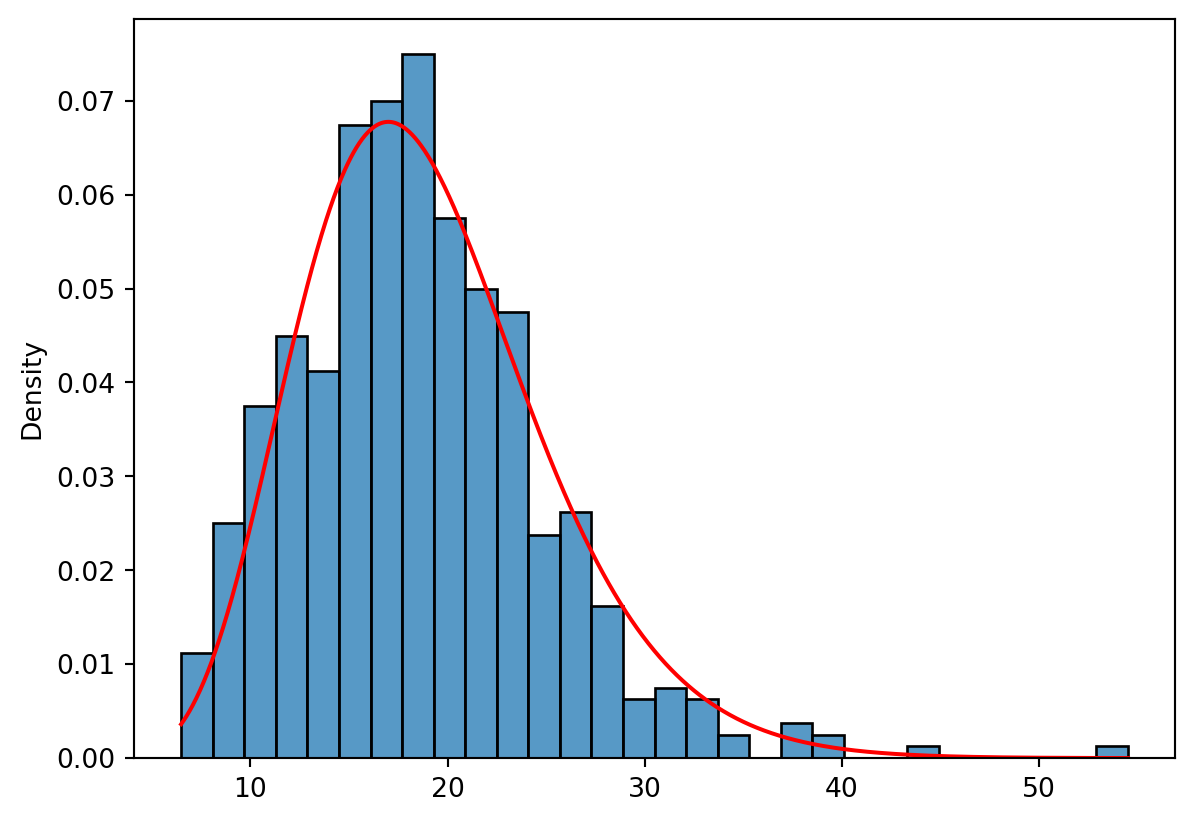
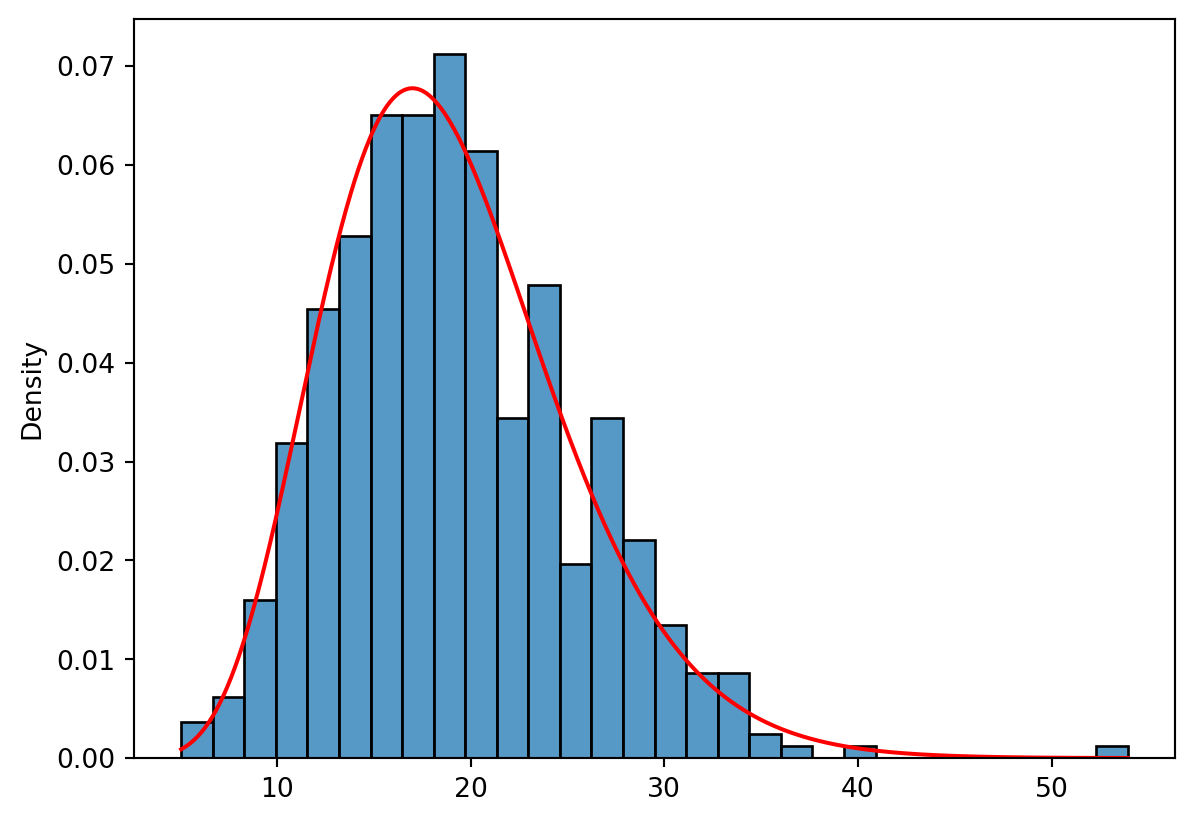
hw7 내용추가

diff --git a/docs/posts/hw7/index.html b/docs/posts/hw7/index.html
@@ -227,7 +227,7 @@ pre > code.sourceCode > span > a:first-child::before { text-decoration: underlin
 <p>2022년에 실시 된 ADP 실기 시험의 통계파트 표준점수는 평균이 30, 표준편차가 5인 정규분포를 따른다고 한다.</p>
 <section id="adp-실기-시험의-통계파트-표준점수의-밀도함수를-그려보세요." class="level3">
 <h3 class="anchored" data-anchor-id="adp-실기-시험의-통계파트-표준점수의-밀도함수를-그려보세요.">1. ADP 실기 시험의 통계파트 표준점수의 밀도함수를 그려보세요.</h3>
-<div id="126dbf3b" class="cell" data-execution_count="1">
+<div id="5fcde84c" class="cell" data-execution_count="1">
 <div class="sourceCode cell-code" id="cb1"><pre class="sourceCode python code-with-copy"><code class="sourceCode python"><span id="cb1-1"><a href="#cb1-1" aria-hidden="true" tabindex="-1"></a><span class="im">import</span> numpy <span class="im">as</span> np</span>
 <span id="cb1-2"><a href="#cb1-2" aria-hidden="true" tabindex="-1"></a><span class="im">import</span> matplotlib.pyplot <span class="im">as</span> plt</span>
 <span id="cb1-3"><a href="#cb1-3" aria-hidden="true" tabindex="-1"></a><span class="im">from</span> scipy.stats <span class="im">import</span> norm</span>
@@ -257,7 +257,7 @@ No artists with labels found to put in legend.  Note that artists whose label st
 </section>
 <section id="adp-수험생을-임의로-1명을-선택하여-통계-점수를-조회했을때-45점-보다-높은-점수를-받았을-확률을-구하세요." class="level3">
 <h3 class="anchored" data-anchor-id="adp-수험생을-임의로-1명을-선택하여-통계-점수를-조회했을때-45점-보다-높은-점수를-받았을-확률을-구하세요.">2. ADP 수험생을 임의로 1명을 선택하여 통계 점수를 조회했을때 45점 보다 높은 점수를 받았을 확률을 구하세요.</h3>
-<div id="cd83b8b8" class="cell" data-execution_count="2">
+<div id="cfd7a344" class="cell" data-execution_count="2">
 <div class="sourceCode cell-code" id="cb3"><pre class="sourceCode python code-with-copy"><code class="sourceCode python"><span id="cb3-1"><a href="#cb3-1" aria-hidden="true" tabindex="-1"></a><span class="im">from</span> scipy.stats <span class="im">import</span> norm</span>
 <span id="cb3-2"><a href="#cb3-2" aria-hidden="true" tabindex="-1"></a></span>
 <span id="cb3-3"><a href="#cb3-3" aria-hidden="true" tabindex="-1"></a>pro <span class="op">=</span> <span class="dv">1</span> <span class="op">-</span> norm.cdf(<span class="dv">45</span>, <span class="dv">30</span>, <span class="dv">5</span>)</span>
@@ -269,7 +269,7 @@ No artists with labels found to put in legend.  Note that artists whose label st
 </section>
 <section id="슬통이는-상위-10에-해당하는-점수를-얻었다고-한다면-슬통이의-점수는-얼마인지-계산해보세요." class="level3">
 <h3 class="anchored" data-anchor-id="슬통이는-상위-10에-해당하는-점수를-얻었다고-한다면-슬통이의-점수는-얼마인지-계산해보세요.">3. 슬통이는 상위 10%에 해당하는 점수를 얻었다고 한다면, 슬통이의 점수는 얼마인지 계산해보세요.</h3>
-<div id="331cdad8" class="cell" data-execution_count="3">
+<div id="4693404d" class="cell" data-execution_count="3">
 <div class="sourceCode cell-code" id="cb5"><pre class="sourceCode python code-with-copy"><code class="sourceCode python"><span id="cb5-1"><a href="#cb5-1" aria-hidden="true" tabindex="-1"></a><span class="bu">print</span>(<span class="ss">f"슬통이의 점수: </span><span class="sc">{</span>norm<span class="sc">.</span>ppf(<span class="fl">0.9</span>, <span class="dv">30</span>, <span class="dv">5</span>)<span class="sc">:.3f}</span><span class="ss">"</span>)</span></code><button title="Copy to Clipboard" class="code-copy-button"><i class="bi"></i></button></pre></div>
 <div class="cell-output cell-output-stdout">
 <pre><code>슬통이의 점수: 36.408</code></pre>
@@ -278,7 +278,7 @@ No artists with labels found to put in legend.  Note that artists whose label st
 </section>
 <section id="슬기로운-통계생활의-해당-회차-수강생은-16명이었다고-한다.-16명의-통계-파트-점수를-평균-내었을-때-이-평균값이-따르는-분포의-확률밀도-함수를-1번의-그래프와-겹쳐-그려보세요." class="level3">
 <h3 class="anchored" data-anchor-id="슬기로운-통계생활의-해당-회차-수강생은-16명이었다고-한다.-16명의-통계-파트-점수를-평균-내었을-때-이-평균값이-따르는-분포의-확률밀도-함수를-1번의-그래프와-겹쳐-그려보세요.">4. 슬기로운 통계생활의 해당 회차 수강생은 16명이었다고 한다. 16명의 통계 파트 점수를 평균 내었을 때, 이 평균값이 따르는 분포의 확률밀도 함수를 1번의 그래프와 겹쳐 그려보세요.</h3>
-<div id="bd248fa1" class="cell" data-execution_count="4">
+<div id="25d19f0b" class="cell" data-execution_count="4">
 <div class="sourceCode cell-code" id="cb7"><pre class="sourceCode python code-with-copy"><code class="sourceCode python"><span id="cb7-1"><a href="#cb7-1" aria-hidden="true" tabindex="-1"></a><span class="im">import</span> numpy <span class="im">as</span> np</span>
 <span id="cb7-2"><a href="#cb7-2" aria-hidden="true" tabindex="-1"></a><span class="im">import</span> matplotlib.pyplot <span class="im">as</span> plt</span>
 <span id="cb7-3"><a href="#cb7-3" aria-hidden="true" tabindex="-1"></a><span class="im">from</span> scipy.stats <span class="im">import</span> norm</span>
@@ -301,7 +301,7 @@ No artists with labels found to put in legend.  Note that artists whose label st
 </section>
 <section id="슬기로운-통계생활-adp-반-수강생들의-통계점수를-평균내었다고-할-때-이-값이-38점보다-높게나올-확률을-구하세요." class="level3">
 <h3 class="anchored" data-anchor-id="슬기로운-통계생활-adp-반-수강생들의-통계점수를-평균내었다고-할-때-이-값이-38점보다-높게나올-확률을-구하세요.">5. 슬기로운 통계생활 ADP 반 수강생들의 통계점수를 평균내었다고 할 때, 이 값이 38점보다 높게나올 확률을 구하세요.</h3>
-<div id="7d5ef046" class="cell" data-execution_count="5">
+<div id="66de74f7" class="cell" data-execution_count="5">
 <div class="sourceCode cell-code" id="cb8"><pre class="sourceCode python code-with-copy"><code class="sourceCode python"><span id="cb8-1"><a href="#cb8-1" aria-hidden="true" tabindex="-1"></a>sample_std <span class="op">=</span> <span class="dv">5</span> <span class="op">/</span> np.sqrt(<span class="dv">16</span>)</span>
 <span id="cb8-2"><a href="#cb8-2" aria-hidden="true" tabindex="-1"></a>pro_up_38 <span class="op">=</span> <span class="dv">1</span> <span class="op">-</span> norm.cdf(<span class="dv">38</span>, <span class="dv">30</span>, scale<span class="op">=</span>sample_std)</span>
 <span id="cb8-3"><a href="#cb8-3" aria-hidden="true" tabindex="-1"></a><span class="bu">print</span>(<span class="ss">f"수강생 평균이 38점보다 높을 확률: </span><span class="sc">{</span>pro_up_38<span class="sc">:.5f}</span><span class="ss">"</span>)</span></code><button title="Copy to Clipboard" class="code-copy-button"><i class="bi"></i></button></pre></div>
@@ -316,7 +316,7 @@ No artists with labels found to put in legend.  Note that artists whose label st
 <p>Covid‑19의 발병률은 1%라고 한다. 다음은 이번 코로나 사태로 인하여 코로나 의심 환자들 1,085 명을 대상으로 슬통 회사의 “다잡아” 키트를 사용하여 양성 반응을 체크한 결과이다.</p>
 <section id="다잡아-키트가-코로나-바이러스에-걸린-사람을-양성으로-잡아낼-확률을-계산하세요." class="level3">
 <h3 class="anchored" data-anchor-id="다잡아-키트가-코로나-바이러스에-걸린-사람을-양성으로-잡아낼-확률을-계산하세요.">1. 다잡아 키트가 코로나 바이러스에 걸린 사람을 양성으로 잡아낼 확률을 계산하세요.</h3>
-<div id="28ce907b" class="cell" data-execution_count="6">
+<div id="553aebd7" class="cell" data-execution_count="6">
 <div class="sourceCode cell-code" id="cb10"><pre class="sourceCode python code-with-copy"><code class="sourceCode python"><span id="cb10-1"><a href="#cb10-1" aria-hidden="true" tabindex="-1"></a><span class="im">import</span> matplotlib.pyplot <span class="im">as</span> plt</span>
 <span id="cb10-2"><a href="#cb10-2" aria-hidden="true" tabindex="-1"></a><span class="im">import</span> matplotlib.image <span class="im">as</span> mpimg</span>
 <span id="cb10-3"><a href="#cb10-3" aria-hidden="true" tabindex="-1"></a>img <span class="op">=</span> mpimg.imread(<span class="st">'check.png'</span>)</span>
@@ -348,10 +348,10 @@ No artists with labels found to put in legend.  Note that artists whose label st
 <section id="covid19-발병률을-사용하여-키트의-결과값이-양성으로-나온-사람이-실제로-코로나-바이러스에-걸려있을-확률을-구하세요." class="level3">
 <h3 class="anchored" data-anchor-id="covid19-발병률을-사용하여-키트의-결과값이-양성으로-나온-사람이-실제로-코로나-바이러스에-걸려있을-확률을-구하세요.">3. Covid‑19 발병률을 사용하여, 키트의 결과값이 양성으로 나온 사람이 실제로 코로나 바이러스에 걸려있을 확률을 구하세요.</h3>
 <p>모르겠어요.</p>
-<div id="06c7b3a4" class="cell" data-execution_count="7">
+<div id="3c7cefea" class="cell" data-execution_count="7">
 <div class="sourceCode cell-code" id="cb12"><pre class="sourceCode python code-with-copy"><code class="sourceCode python"><span id="cb12-1"><a href="#cb12-1" aria-hidden="true" tabindex="-1"></a>sol <span class="op">=</span> (<span class="fl">0.01</span> <span class="op">*</span> (<span class="dv">370</span> <span class="op">/</span> <span class="dv">385</span>)) <span class="op">/</span> (<span class="fl">0.01</span> <span class="op">*</span> (<span class="dv">370</span> <span class="op">/</span> <span class="dv">385</span>) <span class="op">+</span> <span class="fl">0.99</span> <span class="op">*</span> (<span class="dv">10</span> <span class="op">/</span> <span class="dv">700</span>))</span>
 <span id="cb12-2"><a href="#cb12-2" aria-hidden="true" tabindex="-1"></a><span class="bu">round</span>(sol, <span class="dv">3</span>)</span></code><button title="Copy to Clipboard" class="code-copy-button"><i class="bi"></i></button></pre></div>
-<div class="cell-output cell-output-display" data-execution_count="45">
+<div class="cell-output cell-output-display" data-execution_count="60">
 <pre><code>0.405</code></pre>
 </div>
 </div>
@@ -361,7 +361,7 @@ No artists with labels found to put in legend.  Note that artists whose label st
 <h1>카이제곱분포와 표본분산</h1>
 <section id="자유도가-4인-카이제곱분포의-확률밀도함수를-그려보세요." class="level3">
 <h3 class="anchored" data-anchor-id="자유도가-4인-카이제곱분포의-확률밀도함수를-그려보세요.">1. 자유도가 4인 카이제곱분포의 확률밀도함수를 그려보세요.</h3>
-<div id="94de6d1c" class="cell" data-execution_count="8">
+<div id="844555ce" class="cell" data-execution_count="8">
 <div class="sourceCode cell-code" id="cb14"><pre class="sourceCode python code-with-copy"><code class="sourceCode python"><span id="cb14-1"><a href="#cb14-1" aria-hidden="true" tabindex="-1"></a><span class="im">from</span> scipy.stats <span class="im">import</span> chi2</span>
 <span id="cb14-2"><a href="#cb14-2" aria-hidden="true" tabindex="-1"></a><span class="im">import</span> matplotlib.pyplot <span class="im">as</span> plt</span>
 <span id="cb14-3"><a href="#cb14-3" aria-hidden="true" tabindex="-1"></a><span class="im">import</span> numpy <span class="im">as</span> np</span>
@@ -379,7 +379,7 @@ No artists with labels found to put in legend.  Note that artists whose label st
 </section>
 <section id="다음의-확률을-구해보세요.-𝑃-3-𝑋-5" class="level3">
 <h3 class="anchored" data-anchor-id="다음의-확률을-구해보세요.-𝑃-3-𝑋-5">2. 다음의 확률을 구해보세요. 𝑃 (3 ≤ 𝑋 ≤ 5)</h3>
-<div id="82a08d58" class="cell" data-execution_count="9">
+<div id="79cd2b6a" class="cell" data-execution_count="9">
 <div class="sourceCode cell-code" id="cb15"><pre class="sourceCode python code-with-copy"><code class="sourceCode python"><span id="cb15-1"><a href="#cb15-1" aria-hidden="true" tabindex="-1"></a>df <span class="op">=</span> <span class="dv">4</span></span>
 <span id="cb15-2"><a href="#cb15-2" aria-hidden="true" tabindex="-1"></a></span>
 <span id="cb15-3"><a href="#cb15-3" aria-hidden="true" tabindex="-1"></a>pro <span class="op">=</span> chi2.cdf(<span class="dv">5</span>, df) <span class="op">-</span> chi2.cdf(<span class="dv">3</span>, df)</span>
@@ -391,7 +391,7 @@ No artists with labels found to put in legend.  Note that artists whose label st
 </section>
 <section id="자유도가-4인-카이제곱분포에서-크기가-1000인-표본을-뽑은-후-히스토그램을-그려보세요." class="level3">
 <h3 class="anchored" data-anchor-id="자유도가-4인-카이제곱분포에서-크기가-1000인-표본을-뽑은-후-히스토그램을-그려보세요.">3. 자유도가 4인 카이제곱분포에서 크기가 1000인 표본을 뽑은 후, 히스토그램을 그려보세요.</h3>
-<div id="5ff36d7a" class="cell" data-execution_count="10">
+<div id="bb29a543" class="cell" data-execution_count="10">
 <div class="sourceCode cell-code" id="cb17"><pre class="sourceCode python code-with-copy"><code class="sourceCode python"><span id="cb17-1"><a href="#cb17-1" aria-hidden="true" tabindex="-1"></a><span class="im">from</span> scipy.stats <span class="im">import</span> chi2</span>
 <span id="cb17-2"><a href="#cb17-2" aria-hidden="true" tabindex="-1"></a><span class="im">import</span> seaborn <span class="im">as</span> sns</span>
 <span id="cb17-3"><a href="#cb17-3" aria-hidden="true" tabindex="-1"></a>df <span class="op">=</span> <span class="dv">4</span></span>
@@ -408,7 +408,7 @@ No artists with labels found to put in legend.  Note that artists whose label st
 </section>
 <section id="자유도가-4인-카이제곱분포를-따르는-확률변수에서-나올-수-있는-값-중-상위-5에-해당하는-값은-얼마인지-계산해보세요." class="level3">
 <h3 class="anchored" data-anchor-id="자유도가-4인-카이제곱분포를-따르는-확률변수에서-나올-수-있는-값-중-상위-5에-해당하는-값은-얼마인지-계산해보세요.">4.자유도가 4인 카이제곱분포를 따르는 확률변수에서 나올 수 있는 값 중 상위 5%에 해당하는 값은 얼마인지 계산해보세요.</h3>
-<div id="e97efd69" class="cell" data-execution_count="11">
+<div id="00dce06d" class="cell" data-execution_count="11">
 <div class="sourceCode cell-code" id="cb18"><pre class="sourceCode python code-with-copy"><code class="sourceCode python"><span id="cb18-1"><a href="#cb18-1" aria-hidden="true" tabindex="-1"></a>df <span class="op">=</span> <span class="dv">4</span></span>
 <span id="cb18-2"><a href="#cb18-2" aria-hidden="true" tabindex="-1"></a></span>
 <span id="cb18-3"><a href="#cb18-3" aria-hidden="true" tabindex="-1"></a>value <span class="op">=</span> chi2.ppf(<span class="fl">0.95</span>, df)</span>
@@ -422,7 +422,7 @@ No artists with labels found to put in legend.  Note that artists whose label st
 </section>
 <section id="번에서-뽑힌-표본값들-중-상위-5에-위치한-표본의-값은-얼마인가요" class="level3">
 <h3 class="anchored" data-anchor-id="번에서-뽑힌-표본값들-중-상위-5에-위치한-표본의-값은-얼마인가요">5.3번에서 뽑힌 표본값들 중 상위 5%에 위치한 표본의 값은 얼마인가요?</h3>
-<div id="0de454ac" class="cell" data-execution_count="12">
+<div id="9dfb18ac" class="cell" data-execution_count="12">
 <div class="sourceCode cell-code" id="cb20"><pre class="sourceCode python code-with-copy"><code class="sourceCode python"><span id="cb20-1"><a href="#cb20-1" aria-hidden="true" tabindex="-1"></a><span class="im">import</span> numpy <span class="im">as</span> np</span>
 <span id="cb20-2"><a href="#cb20-2" aria-hidden="true" tabindex="-1"></a>df <span class="op">=</span> <span class="dv">4</span></span>
 <span id="cb20-3"><a href="#cb20-3" aria-hidden="true" tabindex="-1"></a></span>
@@ -436,21 +436,21 @@ No artists with labels found to put in legend.  Note that artists whose label st
 </section>
 <section id="평균이-3-표준편차가-2인-정규분포를-따르는-확률변수에서-크기가-20인-표본-𝑥1-𝑥20을-뽑은-후-표본분산을-계산한-것을-𝑠21-이라-생각해보죠.-다음을-수행해보세요" class="level3">
 <h3 class="anchored" data-anchor-id="평균이-3-표준편차가-2인-정규분포를-따르는-확률변수에서-크기가-20인-표본-𝑥1-𝑥20을-뽑은-후-표본분산을-계산한-것을-𝑠21-이라-생각해보죠.-다음을-수행해보세요">6. 평균이 3, 표준편차가 2인 정규분포를 따르는 확률변수에서 크기가 20인 표본, 𝑥1, …, 𝑥20,을 뽑은 후 표본분산을 계산한 것을 𝑠21 이라 생각해보죠. 다음을 수행해보세요!</h3>
-<div id="b2dc9523" class="cell" data-execution_count="13">
+<div id="23418d78" class="cell" data-execution_count="13">
 <div class="sourceCode cell-code" id="cb22"><pre class="sourceCode python code-with-copy"><code class="sourceCode python"><span id="cb22-1"><a href="#cb22-1" aria-hidden="true" tabindex="-1"></a><span class="im">from</span> scipy.stats <span class="im">import</span> norm</span>
 <span id="cb22-2"><a href="#cb22-2" aria-hidden="true" tabindex="-1"></a>X <span class="op">=</span> norm.rvs(<span class="dv">3</span>, <span class="dv">2</span>, <span class="dv">20</span>)</span>
 <span id="cb22-3"><a href="#cb22-3" aria-hidden="true" tabindex="-1"></a><span class="bu">print</span>(<span class="ss">f"평균이3, 표준편차가2, 크기가 20인 확률변수: </span><span class="sc">{</span>X<span class="sc">}</span><span class="ss">"</span>)</span>
 <span id="cb22-4"><a href="#cb22-4" aria-hidden="true" tabindex="-1"></a>s2 <span class="op">=</span> np.var(X, ddof<span class="op">=</span><span class="dv">1</span>)</span>
 <span id="cb22-5"><a href="#cb22-5" aria-hidden="true" tabindex="-1"></a><span class="bu">print</span>(<span class="ss">f"표본분산:</span><span class="sc">{</span>s2<span class="sc">:}</span><span class="ss">"</span>)</span></code><button title="Copy to Clipboard" class="code-copy-button"><i class="bi"></i></button></pre></div>
 <div class="cell-output cell-output-stdout">
-<pre><code>평균이3, 표준편차가2, 크기가 20인 확률변수: [3.69527253 2.31560299 0.16733395 1.65546538 2.95766934 3.07144793
- 6.04533122 1.29862003 0.5679756  3.02514231 2.16727751 2.16552499
- 0.41238537 0.96157942 3.30718267 7.47808058 4.87456334 0.93184582
- 3.04708727 4.91978192]
-표본분산:3.764433320503995</code></pre>
+<pre><code>평균이3, 표준편차가2, 크기가 20인 확률변수: [7.86897943 2.87792008 0.55604542 1.63743512 1.43087609 4.68212575
+ 0.73330274 4.13908651 3.22084082 2.78074265 5.53961171 4.67644201
+ 3.58449796 4.39380388 1.63276229 1.50112658 1.5396435  2.83441164
+ 0.83969932 0.55385919]
+표본분산:3.758063764323342</code></pre>
 </div>
 </div>
-<div id="b2389b58" class="cell" data-execution_count="14">
+<div id="c3a65bfe" class="cell" data-execution_count="14">
 <div class="sourceCode cell-code" id="cb24"><pre class="sourceCode python code-with-copy"><code class="sourceCode python"><span id="cb24-1"><a href="#cb24-1" aria-hidden="true" tabindex="-1"></a><span class="bu">print</span>(<span class="st">"같은 방법으로 500개의 𝑠2 들, 𝑠21, 𝑠22, ..., 𝑠2 500 발생시킵니다."</span>)</span>
 <span id="cb24-2"><a href="#cb24-2" aria-hidden="true" tabindex="-1"></a>size <span class="op">=</span> <span class="dv">20</span> </span>
 <span id="cb24-3"><a href="#cb24-3" aria-hidden="true" tabindex="-1"></a>num_samples <span class="op">=</span> <span class="dv">500</span>  </span>
@@ -467,10 +467,10 @@ No artists with labels found to put in legend.  Note that artists whose label st
 <span id="cb24-14"><a href="#cb24-14" aria-hidden="true" tabindex="-1"></a><span class="bu">print</span>(<span class="ss">f"500개의 표본분산 s2: </span><span class="sc">{</span>S2_values[<span class="dv">0</span>]<span class="sc">:.3f}</span><span class="ss">"</span>)</span></code><button title="Copy to Clipboard" class="code-copy-button"><i class="bi"></i></button></pre></div>
 <div class="cell-output cell-output-stdout">
 <pre><code>같은 방법으로 500개의 𝑠2 들, 𝑠21, 𝑠22, ..., 𝑠2 500 발생시킵니다.
-500개의 표본분산 s2: 5.765</code></pre>
+500개의 표본분산 s2: 2.597</code></pre>
 </div>
 </div>
-<div id="f8289466" class="cell" data-execution_count="15">
+<div id="eaa2b697" class="cell" data-execution_count="15">
 <div class="sourceCode cell-code" id="cb26"><pre class="sourceCode python code-with-copy"><code class="sourceCode python"><span id="cb26-1"><a href="#cb26-1" aria-hidden="true" tabindex="-1"></a><span class="im">import</span> matplotlib.pyplot <span class="im">as</span> plt</span>
 <span id="cb26-2"><a href="#cb26-2" aria-hidden="true" tabindex="-1"></a></span>
 <span id="cb26-3"><a href="#cb26-3" aria-hidden="true" tabindex="-1"></a><span class="bu">print</span>(<span class="st">"발생한 500개의 𝑠2 들 각각에 4.75를 곱하고, 그것들의 히스토그램을 그려보세요. (히스토그램 을 그릴 때 probability = TRUE 옵션을 사용해서 그릴 것)"</span>)</span>

diff --git a/docs/posts/index.html b/docs/posts/index.html
@@ -233,7 +233,7 @@ window.Quarto = {
     </div>
 </div>
 <div class="list grid quarto-listing-cols-3">
-<div class="g-col-1" data-index="0" data-categories="bigdata" data-listing-date-sort="1725202800000" data-listing-file-modified-sort="1725286440460" data-listing-date-modified-sort="NaN" data-listing-reading-time-sort="3" data-listing-word-count-sort="597">
+<div class="g-col-1" data-index="0" data-categories="bigdata" data-listing-date-sort="1725202800000" data-listing-file-modified-sort="1725286519343" data-listing-date-modified-sort="NaN" data-listing-reading-time-sort="3" data-listing-word-count-sort="597">
 <a href="../posts/hw7/index.html" class="quarto-grid-link">
 <div class="quarto-grid-item card h-100 card-left">
 <p class="card-img-top"><img src="hw7\index_files\figure-html\cell-2-output-2.png" style="height: 150px;"  class="thumbnail-image card-img"/></p>

diff --git a/docs/blog.html b/docs/blog.html
@@ -220,7 +220,7 @@ Recent posts
 </div>
 </a>
 </div>
-<div class="g-col-1" data-index="1" data-categories="bigdata" data-listing-date-sort="1725202800000" data-listing-file-modified-sort="1725286440460" data-listing-date-modified-sort="NaN" data-listing-reading-time-sort="3" data-listing-word-count-sort="597">
+<div class="g-col-1" data-index="1" data-categories="bigdata" data-listing-date-sort="1725202800000" data-listing-file-modified-sort="1725286519343" data-listing-date-modified-sort="NaN" data-listing-reading-time-sort="3" data-listing-word-count-sort="597">
 <a href="./posts/hw7/index.html" class="quarto-grid-link">
 <div class="quarto-grid-item card h-100 card-left">
 <p class="card-img-top"><img src="posts\hw7\index_files\figure-html\cell-2-output-2.png" style="height: 150px;"  class="thumbnail-image card-img"/></p>
